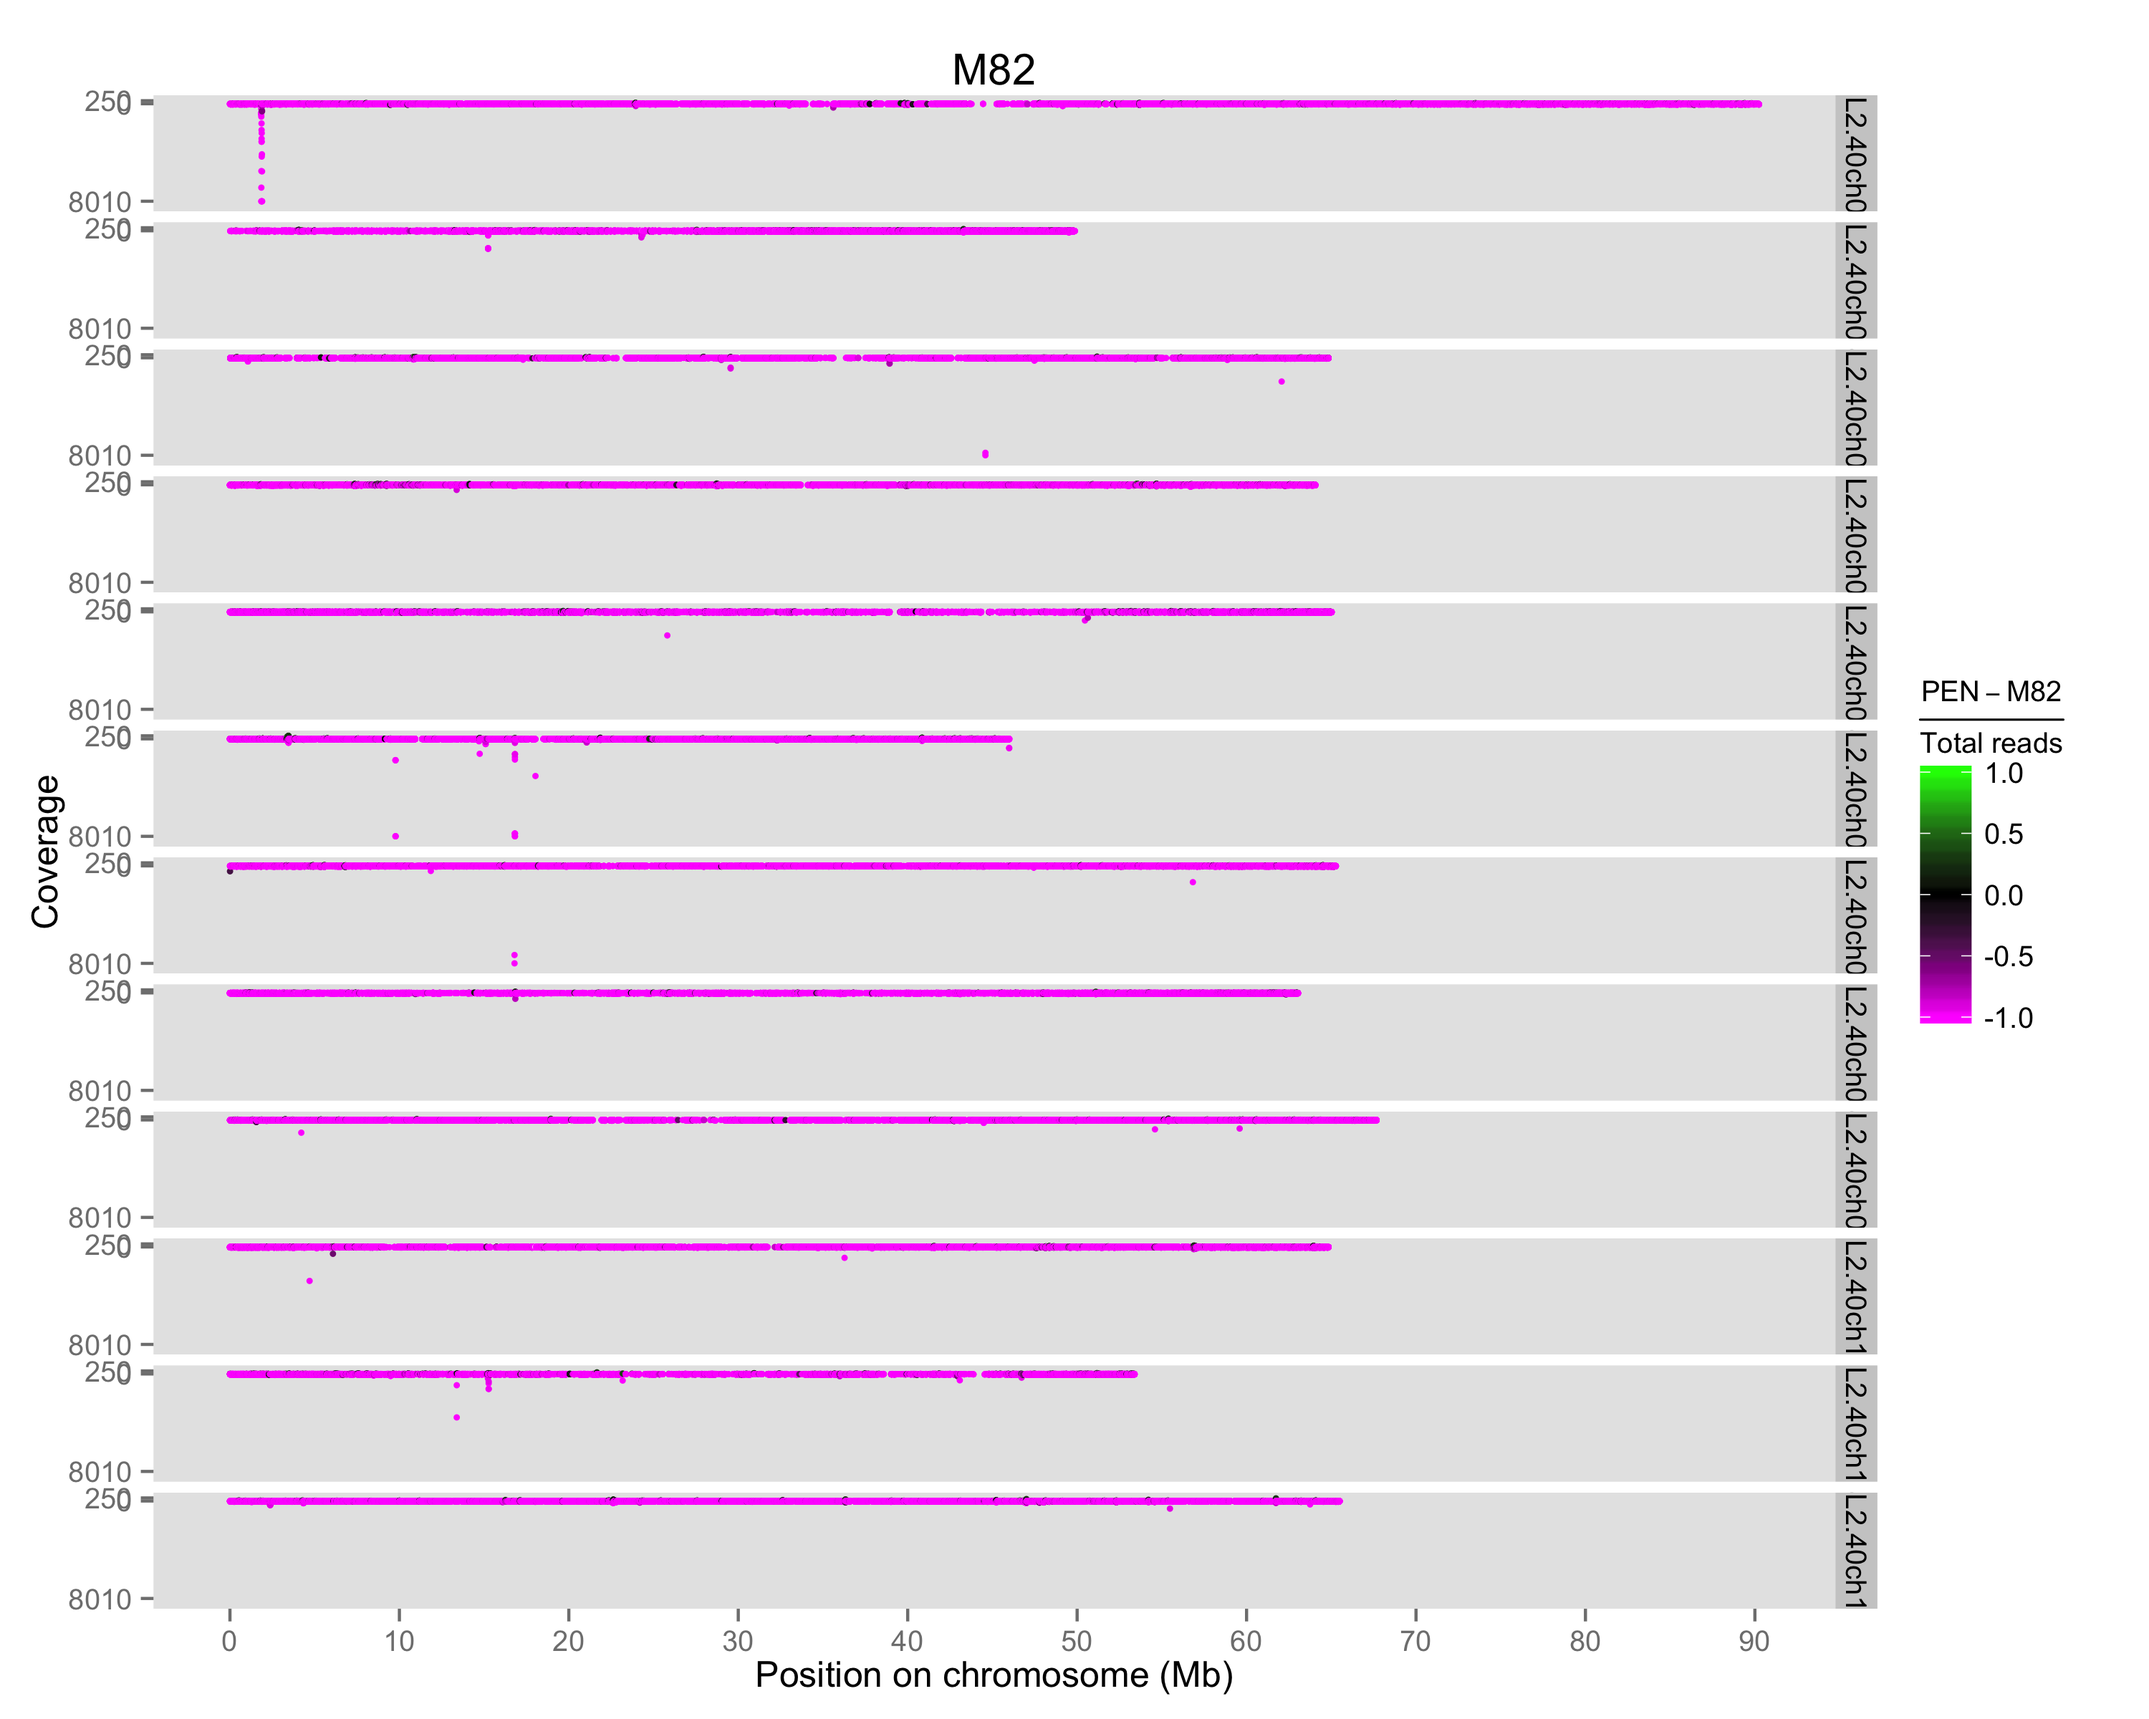
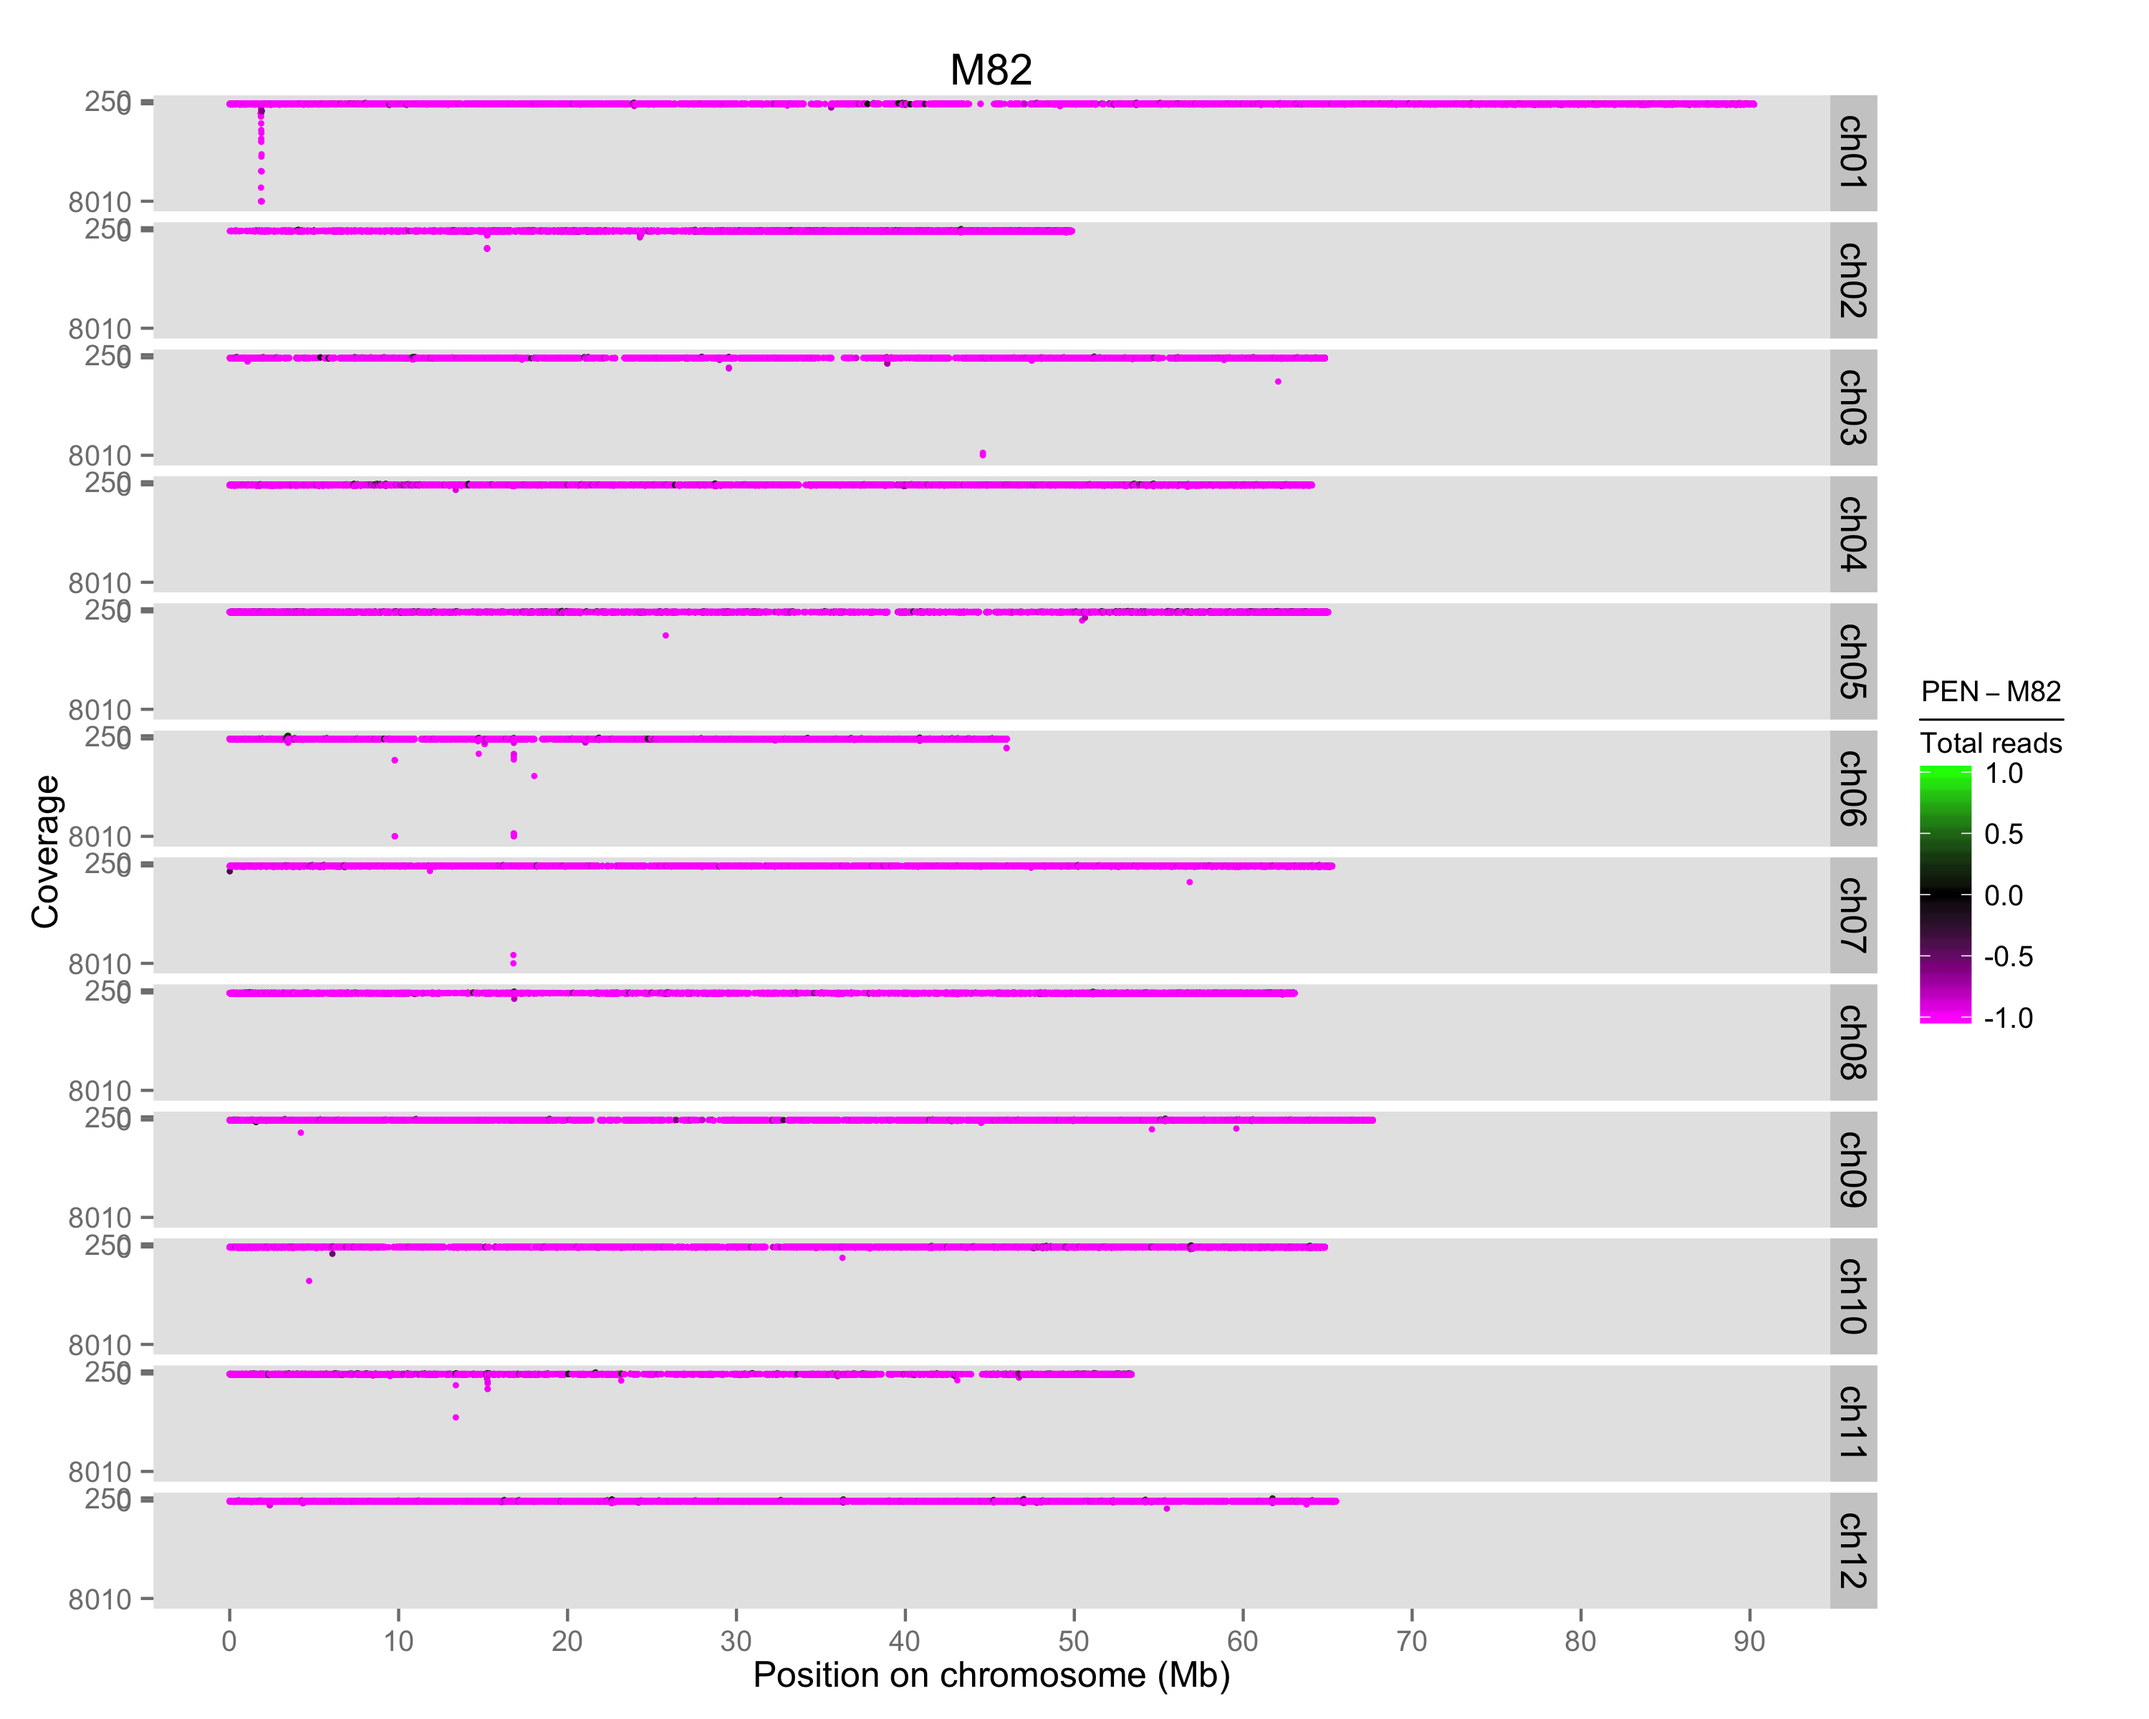
Use SNPTools v0.2.6 to make plots with shortened chromosome IDs with a text size of 12

diff --git a/docs/polymorphism-identification.md b/docs/polymorphism-identification.md
@@ -1,6 +1,6 @@
 # Polymorphism Identification
 
-We used [SNPTools](https://github.com/mfcovington/SNPtools) v0.2.4 to identify find SNPs and INDELs between *Solanum lycopersicum* cv. M82 ('M82') and *S. pennellii* ('PEN').
+We used [SNPTools](https://github.com/mfcovington/SNPtools) v0.2.4 to identify find SNPs and INDELs between *Solanum lycopersicum* cv. M82 ('M82') and *S. pennellii* ('PEN'). SNPTools v0.2.6 was used to make current version of genotype plots. The polymorphism detection results do not differ between these two versions.
 
 
 The alignment files used were:
@@ -259,7 +259,9 @@ for ID in $PAR1 $PAR2; do
       --out_dir     $OUT_DIR \
       --col_par1    magenta \
       --col_par2    green \
-      --no_nr
+      --no_nr \
+      --chr_pat     SL2.40 \
+      --chr_sub     ''
 done
 ```
 
@@ -286,7 +288,9 @@ for ID in $PAR1 $PAR2; do
       --seq_list    $SEQ_LIST \
       --out_dir     $OUT_DIR \
       --col_par1    magenta \
-      --col_par2    green
+      --col_par2    green \
+      --chr_pat     SL2.40 \
+      --chr_sub     ''
 done
 ```
 
@@ -320,7 +324,9 @@ $BIN/Plot/genoplot_by_id.pl \
   --seq_list    $SEQ_LIST \
   --out_dir     $OUT_DIR \
   --col_par1    magenta \
-  --col_par2    green
+  --col_par2    green \
+  --chr_pat     SL2.40 \
+  --chr_sub     ''
 ```
 
 
@@ -379,5 +385,7 @@ $BIN/Plot/genoplot_by_id.pl \
   --seq_list    $SEQ_LIST \
   --out_dir     $OUT_DIR \
   --col_par1    magenta \
-  --col_par2    green
+  --col_par2    green \
+  --chr_pat     SL2.40 \
+  --chr_sub     ''
 ```
